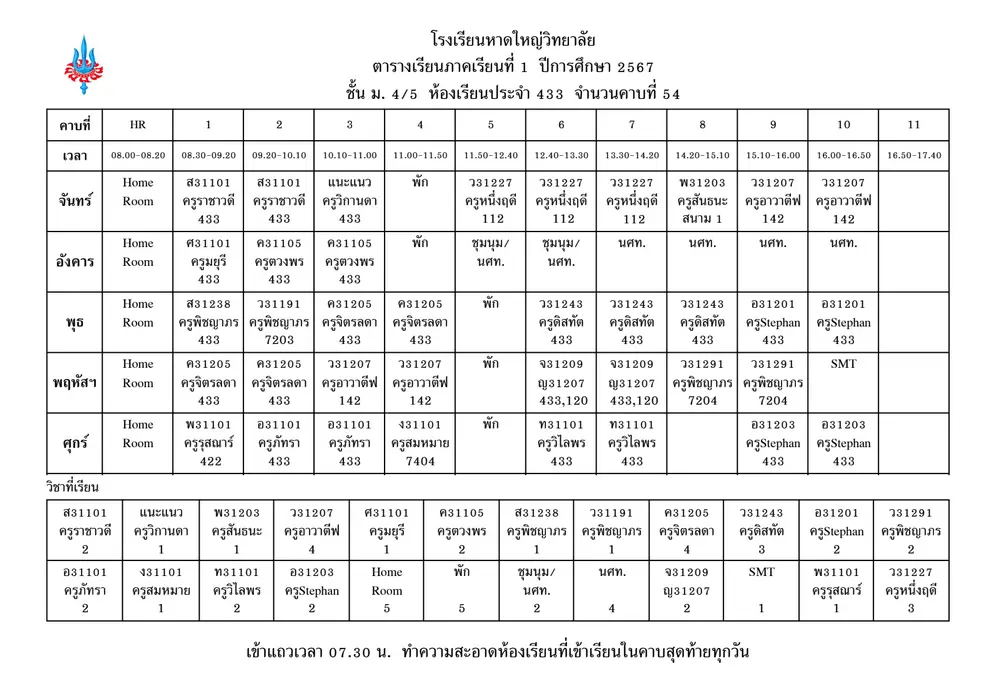
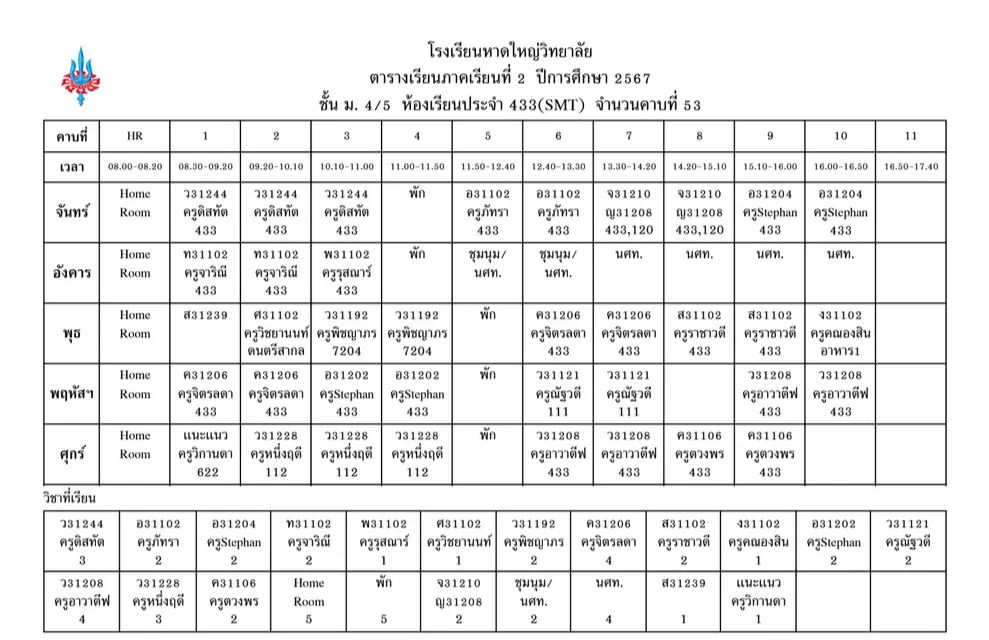
Update timetable

Changed region(s): [[0.0303, 0.0312, 0.9707, 1.0], [0.8493, 0.9688, 0.9707, 1.0]]

diff --git a/smt-site/src/app/page.tsx b/smt-site/src/app/page.tsx
@@ -1,10 +1,12 @@
 "use client";
 
-import { useState, useEffect } from "react";
+import { useState, useEffect, useCallback, SetStateAction } from "react";
 import { Carousel } from "flowbite-react";
 import axios from "axios";
 import Marquee from "react-fast-marquee";
 import Timetable from "./assets/Timetable.webp";
+import ImageViewer from 'react-simple-image-viewer';
+import { IoEyeSharp } from "react-icons/io5";
 
 interface Completion {
   Title: string;
@@ -16,6 +18,12 @@ interface Completion {
 export default function Home() {
   const [data, setData] = useState("ยินดีต้อนรับเข้าสู่เว็ปไซต์");
   const [title] = useState("Hatyaiwit - ม.4/5");
+  const [currentImage, setCurrentImage] = useState(0);
+  const [isViewerOpen, setIsViewerOpen] = useState(false);
+  const images = [
+    'https://firebasestorage.googleapis.com/v0/b/yorwor67slash5.appspot.com/o/Schedule%2FTimetable1.webp?alt=media&token=edeaaf0d-cac6-4684-ad81-00d0253a5500',
+    `${Timetable.src}`,
+  ];
   const [comData, setComData] = useState<Completion[]>([
     {
       Title: "กำลังดึงข้อมูล",
@@ -24,6 +32,16 @@ export default function Home() {
       Time: "กำลังดึงข้อมูล"
     },
   ]);
+
+  const openImageViewer = useCallback((index: SetStateAction<number>) => {
+    setCurrentImage(index);
+    setIsViewerOpen(true);
+  }, []);
+
+  const closeImageViewer = () => {
+    setCurrentImage(0);
+    setIsViewerOpen(false);
+  };
 
   useEffect(() => {
     axios
@@ -100,11 +118,10 @@ export default function Home() {
           📅 ตารางเรียน - Timetable
         </h1>
         <h2 style={{ fontSize: "18px" }}>
-          ตารางเรียน ตารางสอนด้านล่างนี้เป็นฉบับปรับปรุง ครั้งที่ 3{" "}
+          ตารางเรียน ตารางสอนด้านล่างนี้เป็นฉบับปรับปรุง ครั้งที่ 1{" "}<br />
           <span style={{ color: "red" }}>
-            เริ่มใช้ตั้งแต่วันอังคารที่ 18 มิถุนายน พ.ศ. 2567 เป็นต้นไป
+            เริ่มใช้ตั้งแต่วันจันทร์ที่ 28 ตุลาคม - 1 พฤศจิกายน 2567
           </span>
-          <br></br>กรณีพบข้อผิดพลาด สามารถแจ้งข้อมูลได้ที่ สนง.วิชาการ 2 โรงเรียนหาดใหญ่วิทยาลัย
         </h2>
         <img
           width={999}
@@ -113,7 +130,21 @@ export default function Home() {
           style={{ margin: "auto", marginTop: "10px" }}
           src={Timetable.src}
         ></img>
+        <h2 style={{ fontSize: "18px", cursor: "pointer", justifyContent: 'center', alignItems: 'center' }}
+          onClick={() => { openImageViewer(0) }}
+          className="flex w-full mt-5">
+          <IoEyeSharp style={{ marginRight: "6px" }} /> ดูประวัติตารางเรียนทั้งหมด
+        </h2>
       </div>
+      {isViewerOpen && (
+        <ImageViewer
+          src={images}
+          currentIndex={currentImage}
+          disableScroll={false}
+          closeOnClickOutside={true}
+          onClose={closeImageViewer}
+        />
+      )}
     </>
   );
 }
